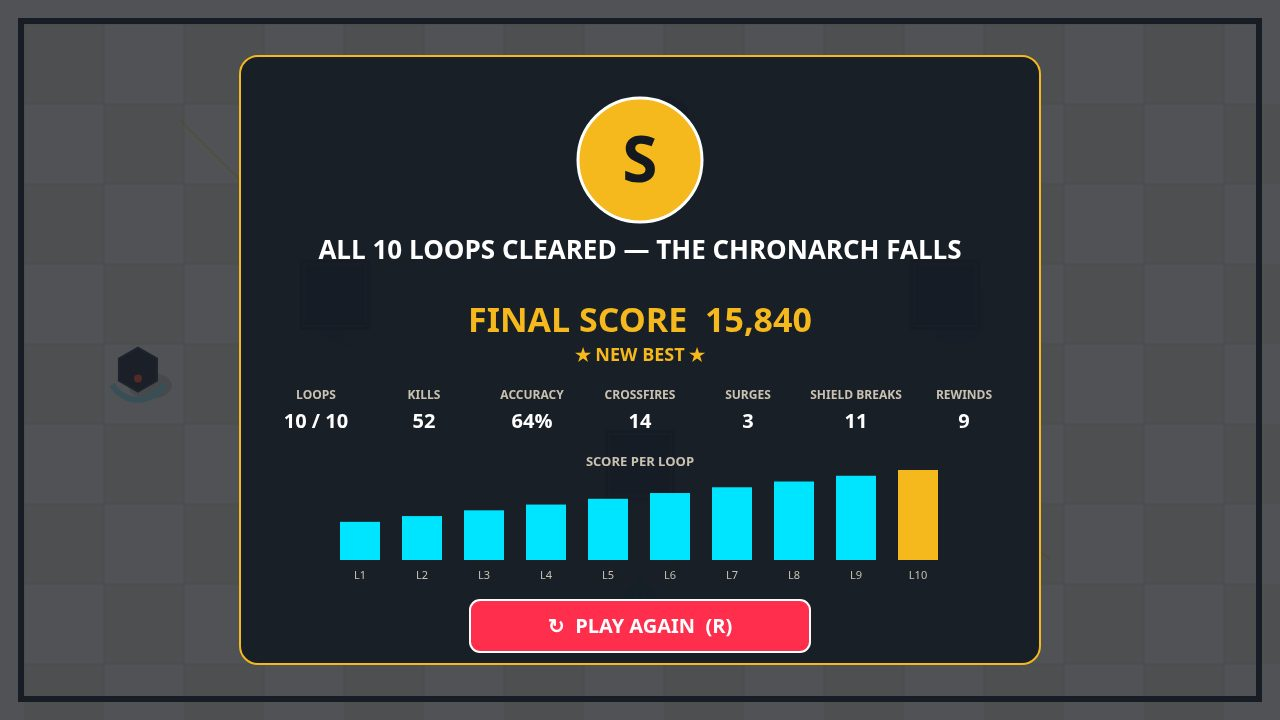
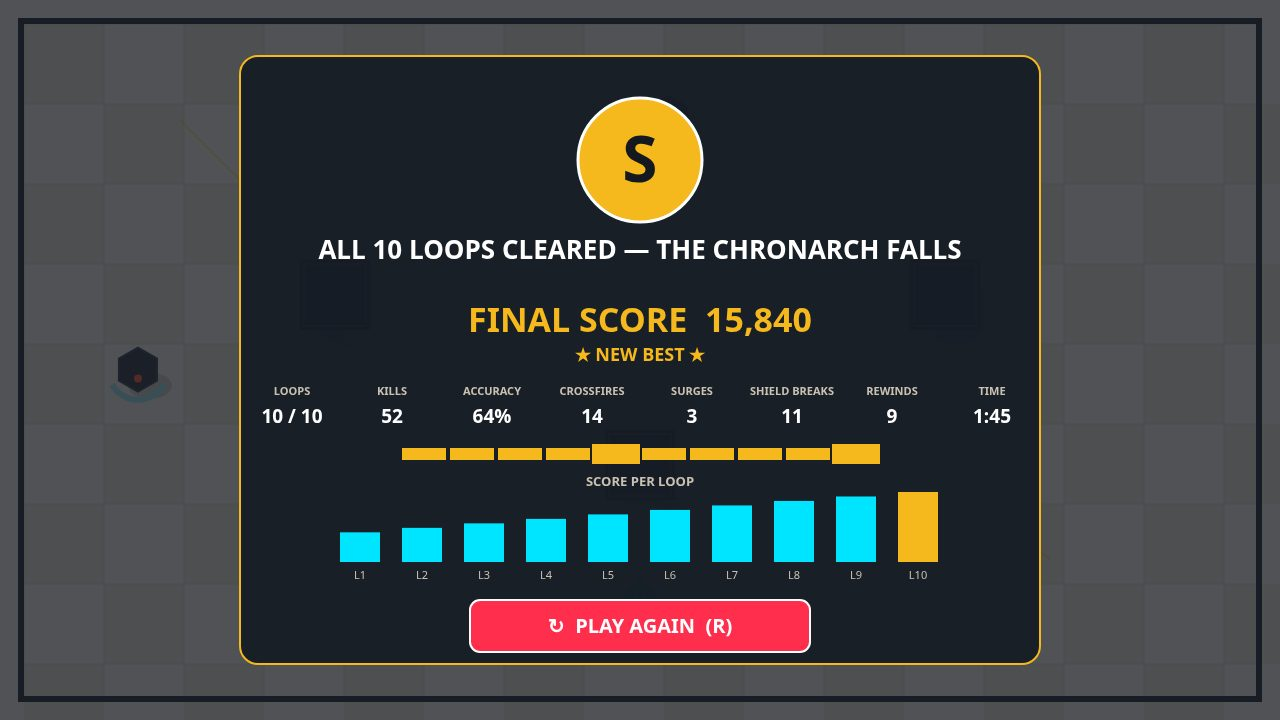
Pass 3: finite structure — loop track on HUD, deep lose screen, quick restart everywhere

diff --git a/game/src/ui/DiegeticHUDRenderer.js b/game/src/ui/DiegeticHUDRenderer.js
@@ -28,6 +28,60 @@ function shadow(ctx, x, y, rx, ry) {
   ctx.fillStyle = 'rgba(20,24,31,0.14)';
   ctx.beginPath(); ctx.ellipse(x + 12, y + 16, rx, ry, 0, 0, Math.PI * 2); ctx.fill();
 }
+// mm:ss for the run-time stat.
+function fmtTime(s) {
+  const t = Math.max(0, Math.round(s || 0));
+  return Math.floor(t / 60) + ':' + String(t % 60).padStart(2, '0');
+}
+// The finite structure, at a glance: 10 segments, boss loops 5 and 10
+// marked with a gold outline, cleared loops filled gold, the current loop
+// cyan (crimson on the lose screen, where it is the loop that killed you),
+// future loops dark. `filled` counts gold segments; `current` is 1-based,
+// 0 hides the highlight (win screen: everything filled). `onDark` draws
+// the unreached segments light, for the summary panel.
+function drawLoopTrack(ctx, cx, y, segW, segH, filled, current, died, onDark) {
+  const gap = 4, total = 10 * segW + 9 * gap, x0 = cx - total / 2;
+  for (let i = 1; i <= 10; i++) {
+    const x = x0 + (i - 1) * (segW + gap);
+    const boss = i === 5 || i === 10;
+    const h = boss ? segH + 4 : segH;
+    const yy = y - (boss ? 2 : 0);
+    if (i <= filled) {
+      ctx.fillStyle = COLOURS.gold;
+      ctx.fillRect(x, yy, segW, h);
+    } else if (i === current) {
+      ctx.fillStyle = died ? COLOURS.crimson : COLOURS.cyan;
+      ctx.fillRect(x, yy, segW, h);
+    } else {
+      ctx.fillStyle = onDark ? 'rgba(255,255,255,0.20)' : 'rgba(22,28,37,0.45)';
+      ctx.fillRect(x, yy, segW, h);
+    }
+    if (boss) {
+      ctx.strokeStyle = COLOURS.gold; ctx.lineWidth = 2;
+      ctx.strokeRect(x - 1, yy - 1, segW + 2, h + 2);
+    }
+  }
+}
+// Who killed the player, in plain words. The killing blow is recorded in
+// damagePlayer; fall back to the most recent damager, then the loop's
+// boss, then a nameless line — a wrong killer is never shown.
+const KILLER_NAMES = {
+  guardian: 'an Aegis Guardian',
+  sniper: 'a Chrono Sniper',
+  bomber: 'a Rift Bomber',
+  chaser: 'a Chaser',
+  splitter: 'a Splitter',
+  phantom: 'a Stolen Echo',
+  warden: 'THE WARDEN',
+  chronarch: 'THE CHRONARCH',
+};
+function killerLine(state) {
+  const k = state.killerType || state.lastDamager;
+  if (k && KILLER_NAMES[k]) return 'Taken down by ' + KILLER_NAMES[k] + ' on Loop ' + state.loop + '.';
+  if (state.loop === 5) return 'Taken down by THE WARDEN on Loop 5.';
+  if (state.loop === 10) return 'Taken down by THE CHRONARCH on Loop 10.';
+  return 'Overwhelmed on Loop ' + state.loop + '.';
+}
 
 const ENEMY_LABELS = {
   guardian: ['🛡', 'AEGIS GUARDIAN', 'Shield front — backstab it'],
@@ -63,11 +117,20 @@ export function render(ctx, state, input) {
   if (state.screen === 'rewind') drawRewindFX(ctx, state);
   // The banner lives on the playfield only: on draft/summary it would sit
   // on top of the cards and the final score (seen in staged screenshots).
-  if (state.banner && (state.screen === 'play' || state.screen === 'rewind')) drawBanner(ctx, state);
+  // The banner never draws under the pause overlay: the two texts collided
+  // (PAUSED over LOOP 1 — CLEAR THE ARENA). The banner is transient anyway.
+  if (state.banner && !state.paused && (state.screen === 'play' || state.screen === 'rewind')) drawBanner(ctx, state);
   if (state.paused) {
     ctx.fillStyle = 'rgba(20,24,31,0.6)'; ctx.fillRect(0, 0, W, H);
-    text(ctx, 'PAUSED', 640, 340, 'bold 54px system-ui, sans-serif', '#FFFFFF', 'center');
-    text(ctx, 'P — resume · M — mute', 640, 395, '18px system-ui, sans-serif', '#C9C2B2', 'center');
+    text(ctx, 'PAUSED', 640, 320, 'bold 54px system-ui, sans-serif', '#FFFFFF', 'center');
+    text(ctx, 'P — resume  ·  R — restart  ·  M — mute', 640, 375, '18px system-ui, sans-serif', '#C9C2B2', 'center');
+    // Clickable RESTART: same restart path as the R key (fresh Loop 1 run).
+    ctx.fillStyle = COLOURS.crimson;
+    rr(ctx, 540, 410, 200, 52, 10); ctx.fill();
+    ctx.strokeStyle = '#FFFFFF'; ctx.lineWidth = 2;
+    rr(ctx, 540, 410, 200, 52, 10); ctx.stroke();
+    text(ctx, '↻  RESTART  (R)', 640, 437, 'bold 19px system-ui, sans-serif', '#FFFFFF', 'center');
+    input.clickRects.push({ kind: 'restart', x: 540, y: 410, w: 200, h: 52 });
   }
 }
 
@@ -382,6 +445,9 @@ function drawPlayHUD(ctx, state, input) {
     text(ctx, 'REWIND NOW  (Q)', cx, state.fray > 0 ? 174 : 150, 'bold 15px system-ui, sans-serif', COLOURS.gold, 'center');
     ctx.globalAlpha = 1;
   }
+  // LOOP-PROGRESS TRACK (Pass 3): 10 segments under the clock — boss loops
+  // 5 and 10 marked gold, cleared loops filled gold, the current loop cyan.
+  drawLoopTrack(ctx, cx, 106, 18, 10, clamp(state.loop - 1, 0, 10), state.loop, false, false);
   // Boss bar under the clock.
   if (state.boss && state.boss.hp > 0) {
     // Bar only: the boss's name is drawn under the boss itself.
@@ -638,11 +704,14 @@ function drawSummary(ctx, state, input) {
   ctx.strokeStyle = '#FFFFFF'; ctx.lineWidth = 3;
   ctx.beginPath(); ctx.arc(640, 160, 62, 0, Math.PI * 2); ctx.stroke();
   text(ctx, g, 640, 164, 'bold 64px system-ui, sans-serif', state.win ? '#14181F' : '#FFFFFF', 'center');
-  text(ctx, state.win ? 'ALL 10 LOOPS CLEARED — THE CHRONARCH FALLS' : 'TIMELINE COLLAPSED', 640, 252, 'bold 26px system-ui, sans-serif', '#FFFFFF', 'center');
-  if (!state.win && state.loseReason) text(ctx, state.loseReason, 640, 284, '16px system-ui, sans-serif', '#C9C2B2', 'center');
+  // Lose screen: the loop that killed you, big — and the killer, named.
+  // Win screen keeps its banner line.
+  text(ctx, state.win ? 'ALL 10 LOOPS CLEARED — THE CHRONARCH FALLS' : 'FELL ON LOOP ' + state.loop,
+    640, 252, 'bold 26px system-ui, sans-serif', state.win ? '#FFFFFF' : COLOURS.crimsonSoft, 'center');
+  if (!state.win) text(ctx, killerLine(state), 640, 284, '16px system-ui, sans-serif', '#C9C2B2', 'center');
   text(ctx, 'FINAL SCORE  ' + state.score.toLocaleString('en-US'), 640, 322, 'bold 34px system-ui, sans-serif', COLOURS.gold, 'center');
   if (state.newBest) text(ctx, '★ NEW BEST ★', 640, 356, 'bold 18px system-ui, sans-serif', '#F5B81D', 'center');
-  // Stats row.
+  // Stats row — 8 columns now, including total RUN TIME (Pass 3).
   const acc = state.shotsFired ? Math.round((state.shotsHit / state.shotsFired) * 100) : 0;
   const stats = [
     ['LOOPS', Math.min(state.loop, 10) + ' / 10'],
@@ -652,28 +721,33 @@ function drawSummary(ctx, state, input) {
     ['SURGES', String(state.surges || 0)],
     ['SHIELD BREAKS', String(state.shieldBreaks)],
     ['REWINDS', String(state.rewinds)],
+    ['TIME', fmtTime(state.runTime)],
   ];
   stats.forEach((s, i) => {
-    const x = 316 + i * 108;
-    text(ctx, s[0], x, 396, 'bold 12px system-ui, sans-serif', '#C9C2B2', 'center');
-    text(ctx, s[1], x, 422, 'bold 20px system-ui, sans-serif', '#FFFFFF', 'center');
+    const x = 292 + i * 100;
+    text(ctx, s[0], x, 392, 'bold 11px system-ui, sans-serif', '#C9C2B2', 'center');
+    text(ctx, s[1], x, 418, 'bold 19px system-ui, sans-serif', '#FFFFFF', 'center');
   });
+  // LOOP-PROGRESS TRACK (Pass 3): win — all 10 filled gold; lose — filled
+  // up to the loop reached, the killing loop crimson, the rest unreached.
+  drawLoopTrack(ctx, 640, 448, 44, 12, state.win ? 10 : clamp(state.loop - 1, 0, 10),
+    state.win ? 0 : state.loop, !state.win, true);
   // Per-loop bar graph.
-  text(ctx, 'SCORE PER LOOP', 640, 462, 'bold 13px system-ui, sans-serif', '#C9C2B2', 'center');
+  text(ctx, 'SCORE PER LOOP', 640, 482, 'bold 13px system-ui, sans-serif', '#C9C2B2', 'center');
   const loops = state.perLoop.slice(0, 10);
   const maxS = Math.max(1, ...loops.map((l) => l.score));
   loops.forEach((l, i) => {
-    const x = 340 + i * 62, h = Math.max(4, (l.score / maxS) * 90);
+    const x = 340 + i * 62, h = Math.max(4, (l.score / maxS) * 70);
     ctx.fillStyle = l.loop === 10 ? COLOURS.gold : COLOURS.cyan;
-    ctx.fillRect(x, 560 - h, 40, h);
+    ctx.fillRect(x, 562 - h, 40, h);
     text(ctx, 'L' + l.loop, x + 20, 576, '11px system-ui, sans-serif', '#C9C2B2', 'center');
   });
   if (!loops.length) text(ctx, 'No loop cleared yet.', 640, 520, '14px system-ui, sans-serif', '#C9C2B2', 'center');
-  // PLAY AGAIN.
+  // PLAY AGAIN on a win, TRY AGAIN on a loss — same restart path (R).
   ctx.fillStyle = COLOURS.crimson;
   rr(ctx, 470, 600, 340, 52, 10); ctx.fill();
   ctx.strokeStyle = '#FFFFFF'; ctx.lineWidth = 2;
   rr(ctx, 470, 600, 340, 52, 10); ctx.stroke();
-  text(ctx, '↻  PLAY AGAIN  (R)', 640, 627, 'bold 20px system-ui, sans-serif', '#FFFFFF', 'center');
+  text(ctx, state.win ? '↻  PLAY AGAIN  (R)' : '↻  TRY AGAIN  (R)', 640, 627, 'bold 20px system-ui, sans-serif', '#FFFFFF', 'center');
   input.clickRects.push({ kind: 'restart', x: 470, y: 600, w: 340, h: 52 });
 }

diff --git a/game/src/core/GameLoopEngine.js b/game/src/core/GameLoopEngine.js
@@ -54,6 +54,9 @@ export function newRun(difficulty, seed) {
     bot: false, demo: true, paused: false,
     shake: 0, flash: 0, slowmoT: 0, hitstopT: 0, killJuiceCd: 0, stasisT: 0, stasisCd: 0,
     win: false, loseReason: '', winGrade: null, newBest: false,
+    // Pass 3: who killed the player, and how long the run lasted. The lose
+    // screen names the killer; the win/lose screens show total run time.
+    killerType: null, lastDamager: null, runTime: 0,
     banner: null, events: [],
   };
   try { st.best = Number(window.localStorage.getItem('chronoweave-best') || 0); } catch (e) { st.best = 0; }
@@ -211,6 +214,9 @@ function toSummary(state, win, reason) {
   state.win = win;
   state.loseReason = reason || '';
   state.screen = 'summary';
+  // Snapshot the run clock now: step() keeps advancing state.time on the
+  // summary screen, so the displayed run time must be frozen here.
+  state.runTime = state.time;
   if (win) {
     const gain = Math.round(state.loopTimeLeft * SCORING.winBonusPerSecond);
     state.score += gain;
@@ -222,6 +228,13 @@ function toSummary(state, win, reason) {
     }
     state.events.push({ type: 'win' });
   } else {
+    // A losing run can still be a NEW BEST — the lose screen shows the
+    // badge and the best is saved, exactly like a win.
+    state.newBest = state.score > state.best;
+    if (state.newBest) {
+      state.best = state.score;
+      try { window.localStorage.setItem('chronoweave-best', String(state.best)); } catch (e) { /* no storage */ }
+    }
     state.events.push({ type: 'lose' });
   }
 }
@@ -373,6 +386,17 @@ export function step(state, input, audio, dt) {
   }
 
   if (state.paused) {
+    // Quick restart from pause: R key, or the clickable RESTART button.
+    // startRun() replaces the whole state — score 0, loop 1, no upgrades,
+    // no echoes, no fray, weave 0 — so a restart is always a fresh run.
+    if (input.restartPressed) { input.restartPressed = false; startRun(state, state.difficulty, (state.seed + 1) >>> 0); drainEvents(state, audio); return; }
+    for (const r of input.clickRects) {
+      if (r.kind === 'restart' && input.consumeClick(r)) {
+        startRun(state, state.difficulty, (state.seed + 1) >>> 0);
+        drainEvents(state, audio);
+        return;
+      }
+    }
     if (input.pausePressed) { state.paused = false; input.pausePressed = false; }
     input.clearEdges();
     return;

diff --git a/game/src/systems/BallisticsAndShieldSystem.js b/game/src/systems/BallisticsAndShieldSystem.js
@@ -170,7 +170,7 @@ export function updateBolts(state, dt) {
     }
     if (!dead && b.from === 'enemy') {
       if (p.alive && dist(nx, ny, p.x, p.y) < p.radius + 4) {
-        damagePlayer(state, b.dmg, nx, ny);
+        damagePlayer(state, b.dmg, nx, ny, b.src || 'enemy');
         dead = true;
       }
       if (!dead) {
@@ -185,20 +185,26 @@ export function updateBolts(state, dt) {
   state.bolts = state.bolts.filter((b) => !b.dead);
 }
 
-export function damagePlayer(state, dmg, sx, sy) {
+// srcType names the enemy that dealt the blow ('sniper', 'bomber', 'warden',
+// ...). Every damaging hit records the most recent damager, and the blow
+// that kills the player records the killer — the lose screen names it. A
+// wrong killer is never shown: the line falls back to the last damager,
+// then the loop's boss, then a nameless line.
+export function damagePlayer(state, dmg, sx, sy, srcType) {
   const p = state.player;
   if (!p.alive || p.invulnT > 0 || p.dashT > 0) return;
+  if (srcType) state.lastDamager = srcType;
   p.hp -= dmg * state.diff.dmgMul;
   p.invulnT = 0.5;
   state.combo = 0; state.comboT = 0;
   state.shake = Math.min(14, state.shake + 6);
   state.events.push({ type: 'playerHit', x: p.x, y: p.y });
   addFloat(state, p.x, p.y - 28, '-' + Math.round(dmg * state.diff.dmgMul), '#FF2E4D');
-  if (p.hp <= 0) { p.hp = 0; p.alive = false; }
+  if (p.hp <= 0) { p.hp = 0; p.alive = false; state.killerType = srcType || state.lastDamager || null; }
 }
 
-export function spawnShockwave(state, x, y) {
-  state.shockwaves.push({ x, y, r: 30, speed: 320, maxR: 560, hit: false });
+export function spawnShockwave(state, x, y, owner) {
+  state.shockwaves.push({ x, y, r: 30, speed: 320, maxR: 560, hit: false, owner: owner || 'warden' });
   state.events.push({ type: 'shockwave', x, y });
 }
 
@@ -210,7 +216,7 @@ export function updateShockwaves(state, dt) {
       const d = dist(p.x, p.y, s.x, s.y);
       if (Math.abs(d - s.r) < 16) {
         s.hit = true;
-        damagePlayer(state, 15, p.x, p.y);
+        damagePlayer(state, 15, p.x, p.y, s.owner || 'warden');
       }
     }
     if (s.r > s.maxR) s.dead = true;

diff --git a/game/src/systems/ArenaDirector.js b/game/src/systems/ArenaDirector.js
@@ -113,7 +113,7 @@ function guardianTarget(state, e) {
 function contactHit(state, e, p, dmg) {
   if (e.contactCd <= 0 && p.alive) {
     e.contactCd = 0.9;
-    damagePlayer(state, dmg, e.x, e.y);
+    damagePlayer(state, dmg, e.x, e.y, e.type);
   }
 }
 
@@ -161,7 +161,7 @@ export function updateEnemies(state, dt) {
         const cadence = e.type === 'chronarch' ? (e.phase >= 3 ? 4 : e.phase === 2 ? 4.5 : 6) : 6;
         if (e.waveT > cadence) {
           e.waveT = 0;
-          spawnShockwave(state, e.x, e.y);
+          spawnShockwave(state, e.x, e.y, e.type);
         }
         // WARDEN PHASE II — telegraphed summon: at 55% HP the Warden starts
         // summoning (1s of gold warning markers + callout) and the snipers
@@ -233,7 +233,7 @@ export function updateEnemies(state, dt) {
           state.bolts.push({
             x: e.x + Math.cos(e.teleAngle) * 20, y: e.y + Math.sin(e.teleAngle) * 20,
             vx: Math.cos(e.teleAngle) * 760, vy: Math.sin(e.teleAngle) * 760,
-            from: 'enemy', dmg: 15, pierce: true, ricochet: false, ricocheted: false, life: 2.2, trail: [],
+            from: 'enemy', src: 'sniper', dmg: 15, pierce: true, ricochet: false, ricocheted: false, life: 2.2, trail: [],
           });
           state.events.push({ type: 'sniperShot', x: e.x, y: e.y });
         }
@@ -252,7 +252,7 @@ export function updateEnemies(state, dt) {
         state.events.push({ type: 'detonate', x: e.x, y: e.y });
         spawnSparks(state, e.x, e.y, 26, '#E4572E');
         state.shake = Math.min(16, state.shake + 8);
-        if (d < 120) damagePlayer(state, 20, e.x, e.y);
+        if (d < 120) damagePlayer(state, 20, e.x, e.y, 'bomber');
         state.rifts.push({ x: e.x, y: e.y, r: 85, ttl: 6 });
         state.kills++; state.loopKills++;
       }

diff --git a/game/src/main.js b/game/src/main.js
@@ -165,6 +165,7 @@ window.__chronoweave = {
     state.best = 15840;
     state.perLoop = [1, 2, 3, 4, 5, 6, 7, 8, 9, 10].map((l) => ({ loop: l, kills: 4 + (l % 3), score: 900 + l * 160, time: 9.4 }));
     state.kills = 52; state.crossfires = 14; state.shieldBreaks = 11; state.rewinds = 9; state.surges = 3;
+    state.runTime = 105; // staged run time: 10 loops at ~9.4s + rewinds/drafts.
     state.shotsFired = 640; state.shotsHit = 410;
     state.win = true; state.winGrade = 'S'; state.newBest = true;
     state.screen = 'summary';
